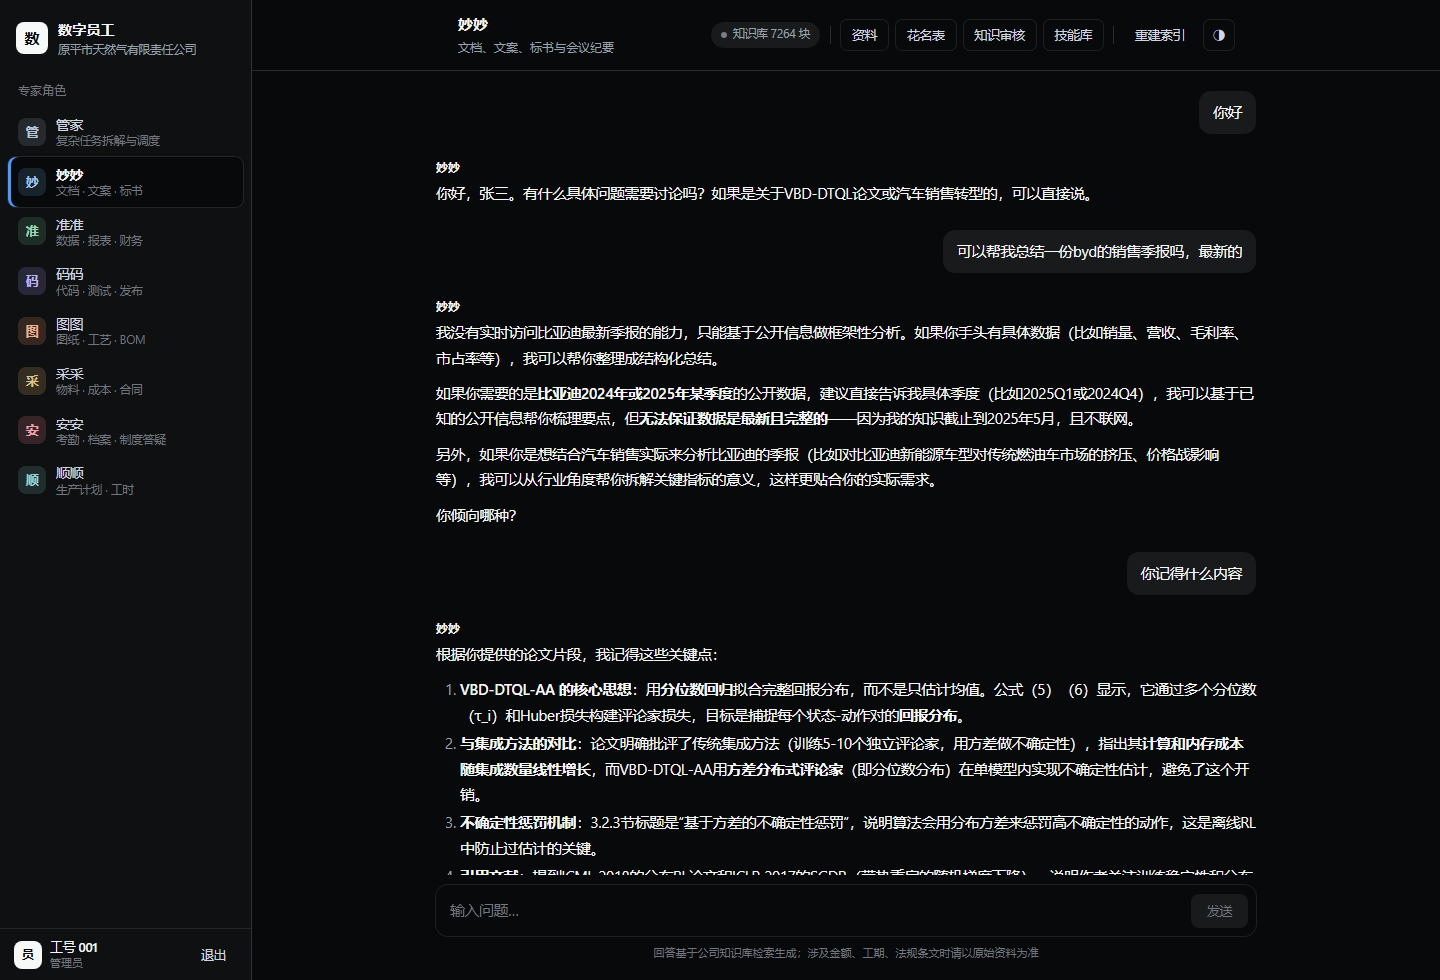
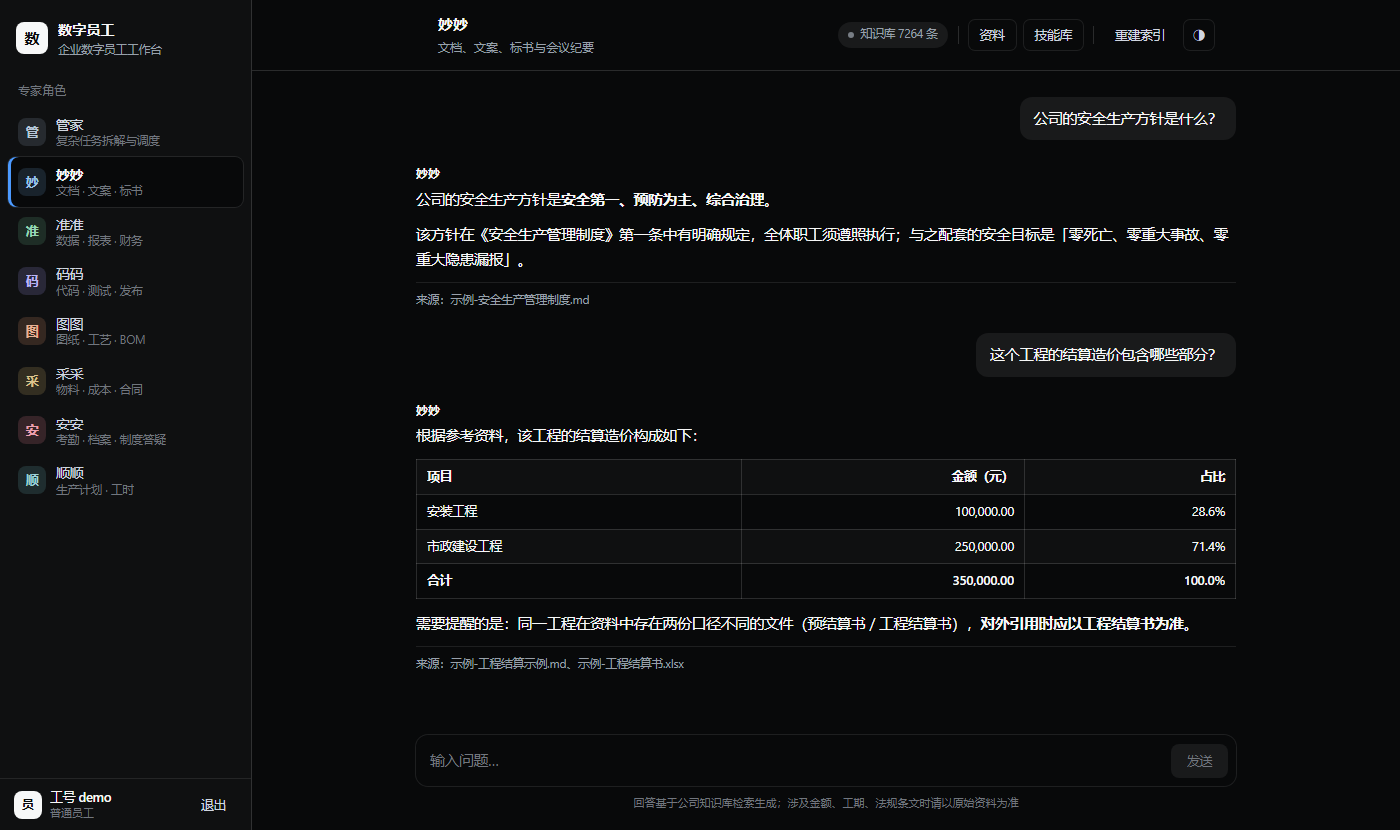
docs: 替换 README 截图为脱敏后的示例对话；表格支持列对齐
- 截图改为渲染"干净的示例对话"（内容取自 sample_docs，无任何真实业务信息）
- 原截图含私人对话内容，不适合作为开源项目门面
- Markdown 渲染器新增表格列对齐：|:---|---:| 语法，金额/数字列右对齐
- 状态栏"知识库 N 块"改为"N 条"，对非技术用户更易读

diff --git a/webui/static/chat.html b/webui/static/chat.html
@@ -206,7 +206,7 @@ main{flex:1;display:flex;flex-direction:column;min-width:0;background:var(--bg)}
 .msg .md strong{font-weight:600}
 .msg .md table{border-collapse:collapse;width:100%;margin:6px 0 12px;font-size:12.5px;
   font-variant-numeric:tabular-nums}
-.msg .md th,.msg .md td{border:1px solid var(--border-2);padding:6px 10px;text-align:left;vertical-align:top}
+.msg .md th,.msg .md td{border:1px solid var(--border-2);padding:6px 10px;text-align:left;vertical-align:top;font-variant-numeric:tabular-nums}
 .msg .md th{background:var(--bg-subtle);font-weight:600;white-space:nowrap}
 .msg .md tbody tr:nth-child(even){background:#f7f7f7}
 html[data-theme="dark"] .msg .md tbody tr:nth-child(even){background:rgba(255,255,255,.03)}
@@ -447,11 +447,20 @@ function renderMD(md) {
         return l.trim().replace(/^\||\|$/g, "").split("|").map(function (s) { return s.trim(); });
       };
       const head = cells(line);
+      // 分隔行决定列对齐：|:---|---:|:---:| → 左/右/居中（金额、数字列右对齐才对得齐小数点）
+      const align = cells(lines[i + 1]).map(function (s) {
+        const l = s.charAt(0) === ":", r = s.charAt(s.length - 1) === ":";
+        return (l && r) ? "center" : (r ? "right" : (l ? "left" : ""));
+      });
+      const tag = function (name, txt, idx) {
+        const a = align[idx] || "";
+        return "<" + name + (a ? ' style="text-align:' + a + '"' : "") + ">" + inline(txt) + "</" + name + ">";
+      };
       i += 2; const rows = [];
       while (i < lines.length && /^\s*\|.*\|\s*$/.test(lines[i])) { rows.push(cells(lines[i])); i++; }
-      out.push("<table><thead><tr>" + head.map(function (h) { return "<th>" + inline(h) + "</th>"; }).join("") +
+      out.push("<table><thead><tr>" + head.map(function (h, idx) { return tag("th", h, idx); }).join("") +
         "</tr></thead><tbody>" + rows.map(function (r) {
-          return "<tr>" + r.map(function (c) { return "<td>" + inline(c) + "</td>"; }).join("") + "</tr>";
+          return "<tr>" + r.map(function (c, idx) { return tag("td", c, idx); }).join("") + "</tr>";
         }).join("") + "</tbody></table>");
       continue;
     }
@@ -896,8 +905,8 @@ async function pollKbStatus() {
       el.className = "status err";
       el.innerHTML = '<span class="dot"></span>重建失败 · 见日志';
     } else {
-      el.innerHTML = '<span class="dot"></span>知识库 ' + d.chunks + " 块";
-      el.title = "构建时间 " + (d.built_at || "-") + "；把文档丢进 docs/ 会自动重建";
+      el.innerHTML = '<span class="dot"></span>知识库 ' + d.chunks + " 条";
+      el.title = "已收录 " + d.chunks + " 条知识片段，构建时间 " + (d.built_at || "-") + "；新增文档会自动更新";
     }
   } catch (e) {}
 }

diff --git a/README.md b/README.md
@@ -5,6 +5,8 @@
 
 ![对话主界面](screenshots/1-chat-light.png)
 
+*对话工作台（浅色主题）：左侧是专家角色，回答下方自动标注资料出处，金额表格右对齐。深色主题见 `screenshots/2-chat-dark.png`；登录页与技能库见 `screenshots/3-login.png`、`screenshots/4-skills.png`。*
+
 ## 这是什么
 
 企业内部知识助手 + 文书助手。9 个专家角色（文档、数据、代码、图纸、采购、人事、生产、总调度）共用一套知识库，可以上传资料、沉淀问答知识、共享提示词技能。
